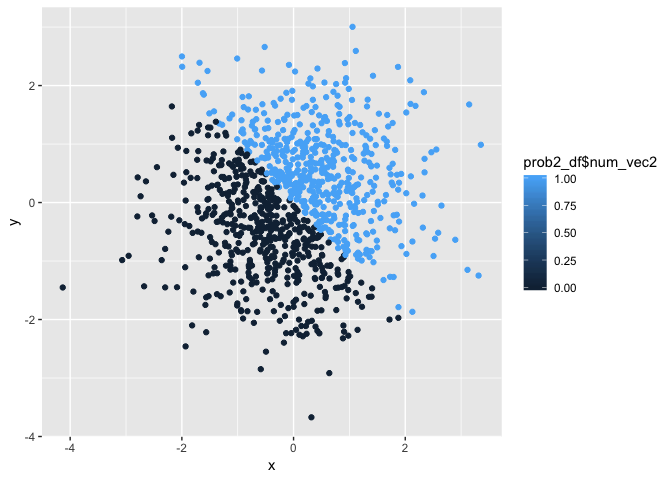
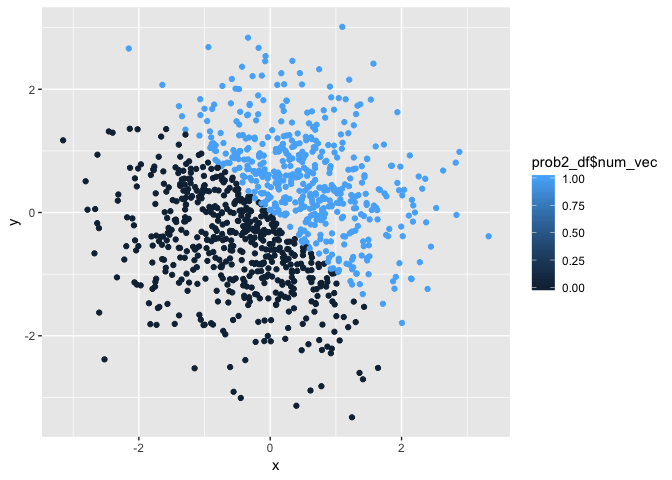
Saving plot_1 as a pdf file

diff --git a/HW1.md b/HW1.md
@@ -13,6 +13,21 @@ Problem 1
 Below is a dataframe containing four different vectors:
 
 ``` r
+library(tidyverse)
+```
+
+    ## ── Attaching packages ───────────────────────────────────────────────────────────────────────────── tidyverse 1.2.1 ──
+
+    ## ✔ ggplot2 3.0.0     ✔ purrr   0.2.5
+    ## ✔ tibble  1.4.2     ✔ dplyr   0.7.6
+    ## ✔ tidyr   0.8.1     ✔ stringr 1.3.1
+    ## ✔ readr   1.1.1     ✔ forcats 0.3.0
+
+    ## ── Conflicts ──────────────────────────────────────────────────────────────────────────────── tidyverse_conflicts() ──
+    ## ✖ dplyr::filter() masks stats::filter()
+    ## ✖ dplyr::lag()    masks stats::lag()
+
+``` r
 prob1_df = tibble(
   rand_samp = runif(10, min = 0, max = 5),
   log_vec = rand_samp > 2,
@@ -83,41 +98,46 @@ library(tidyverse)
 prob2_df = tibble(
   x = rnorm(1000),
   y = rnorm(1000),
-  log_vec2 = (x + y > 0),
-  num_vec2 = as.numeric(log_vec2),
-  fac_vec2 = as.factor(num_vec2)
+  log_vec = (x + y > 0),
+  num_vec = as.numeric(log_vec),
+  fac_vec = as.factor(log_vec)
 )
 ```
 
-My factor vector created above has 1000, a mean of -0.013491, a median of `median(prob2_df$x)`, and a proportion of cases 0.501.
+My factor vector created above has 1000, a mean of -0.0192914, a median of `median(prob2_df$x)`, and a proportion of cases 0.482.
 
 Below is a scatterplot of x and y that colors the points based on the logical variable:
 
 ``` r
-ggplot(prob2_df, aes(x = x, y = y)) +
-  geom_point(aes(color = prob2_df$log_vec2))
+plot_1 = ggplot(prob2_df, aes(x = x, y = y)) +
+  geom_point(aes(color = prob2_df$log_vec))
+plot_1
 ```
 
 ![](HW1_files/figure-markdown_github/sp_log_vec-1.png)
 
-The red points are the x and y values that do not meet the log\_vec2 statement (FALSE) whereas the blue points are the x and y values that do meet the log\_vec2 statement (TRUE).
+The red points are the x and y values that do not meet the log\_vec statement (FALSE) whereas the blue points are the x and y values that do meet the log\_vec statement (TRUE).
 
 Below is a scatterplot of x and y that colors the points based on the numeric variable:
 
 ``` r
-ggplot(prob2_df, aes(x = x, y = y)) +
-  geom_point(aes(color = prob2_df$num_vec2))
+plot_2 = ggplot(prob2_df, aes(x = x, y = y)) +
+  geom_point(aes(color = prob2_df$num_vec))
+plot_2
 ```
 
-![](HW1_files/figure-markdown_github/sp_num_vec-1.png) The dark blue points represent the points when num\_vec2 = 0 (FALSE) and the light blue point represent the values in which num\_vec2 = 1 (TRUE).
+![](HW1_files/figure-markdown_github/sp_num_vec-1.png) The dark blue points represent the points when num\_vec = 0 (FALSE) and the light blue point represent the values in which num\_vec = 1 (TRUE).
 
 Below is a scatterplot of x and y that colors the points based on the factor variable:
 
 ``` r
-ggplot(prob2_df, aes(x = x, y = y)) +
-  geom_point(aes(color = prob2_df$fac_vec2))
+plot_3 = ggplot(prob2_df, aes(x = x, y = y)) +
+  geom_point(aes(color = prob2_df$fac_vec))
+plot_3
 ```
 
-![](HW1_files/figure-markdown_github/sp_fac_vec-1.png) The blue points represent when fac\_vec2 = 1 and the red points represent when fac\_vec2 = 0. This scale is different from the numeric scatterplot (sp\_num\_vec) because there are only a set of values that fac\_vec can take (in this case, 0 or 1) whereas there are an infinite number of values that a numeric vector can take.
+![](HW1_files/figure-markdown_github/sp_fac_vec-1.png) The blue points represent when fac\_vec = TRUE and the red points represent when fac\_vec = FALSE. This scale is different from the numeric scatterplot (sp\_num\_vec) because there are only a set of values that fac\_vec can take (in this case, TRUE or FALSE) whereas there are an infinite number of values that a numeric vector can take.
 
-Exporting the first scatterplot (sp\_log\_vec) to my project directory. \#HOW DOES THIS KNOW TO DO THE FIRST SCATTER PLOT? `ggsave("scatterplot_log_vec.pdf", height = 4, width = 6)`
+Exporting the first scatterplot (sp\_log\_vec) to my project directory.
+
+`ggsave("scatterplot_log_vec.pdf", plot = plot_1, height = 4, width = 6)`
